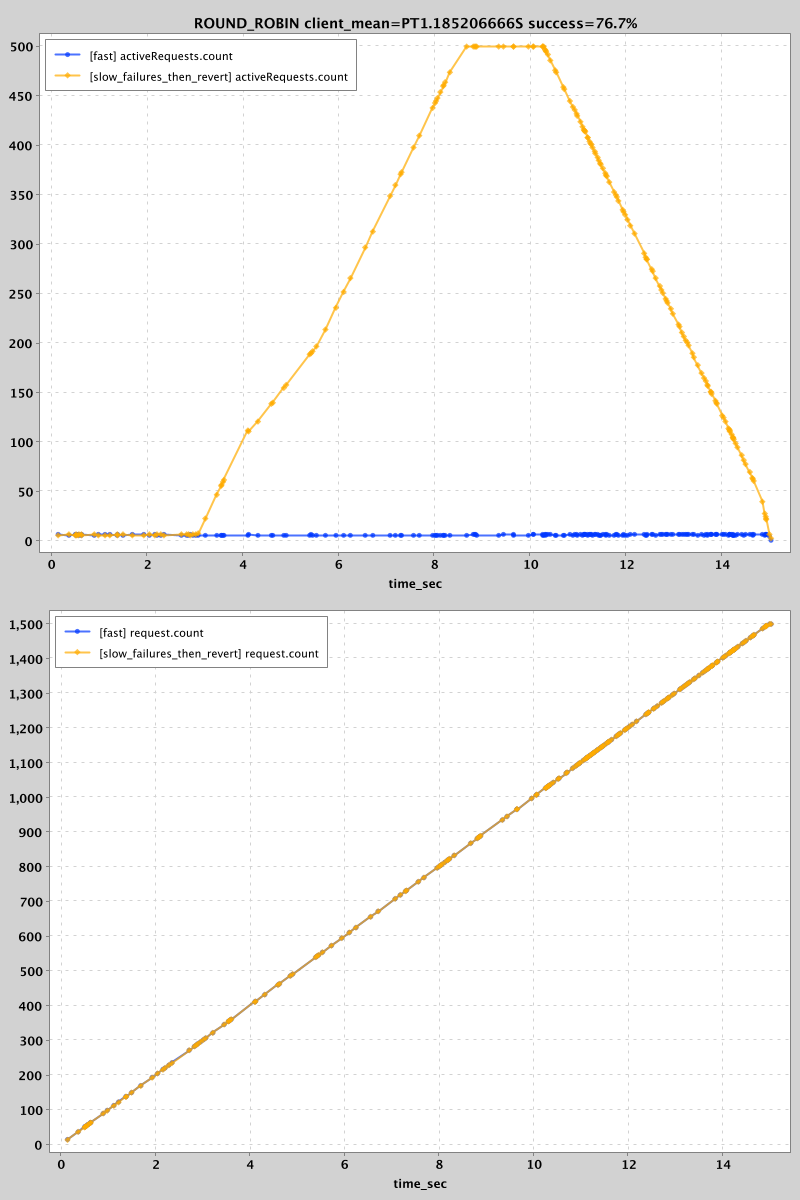
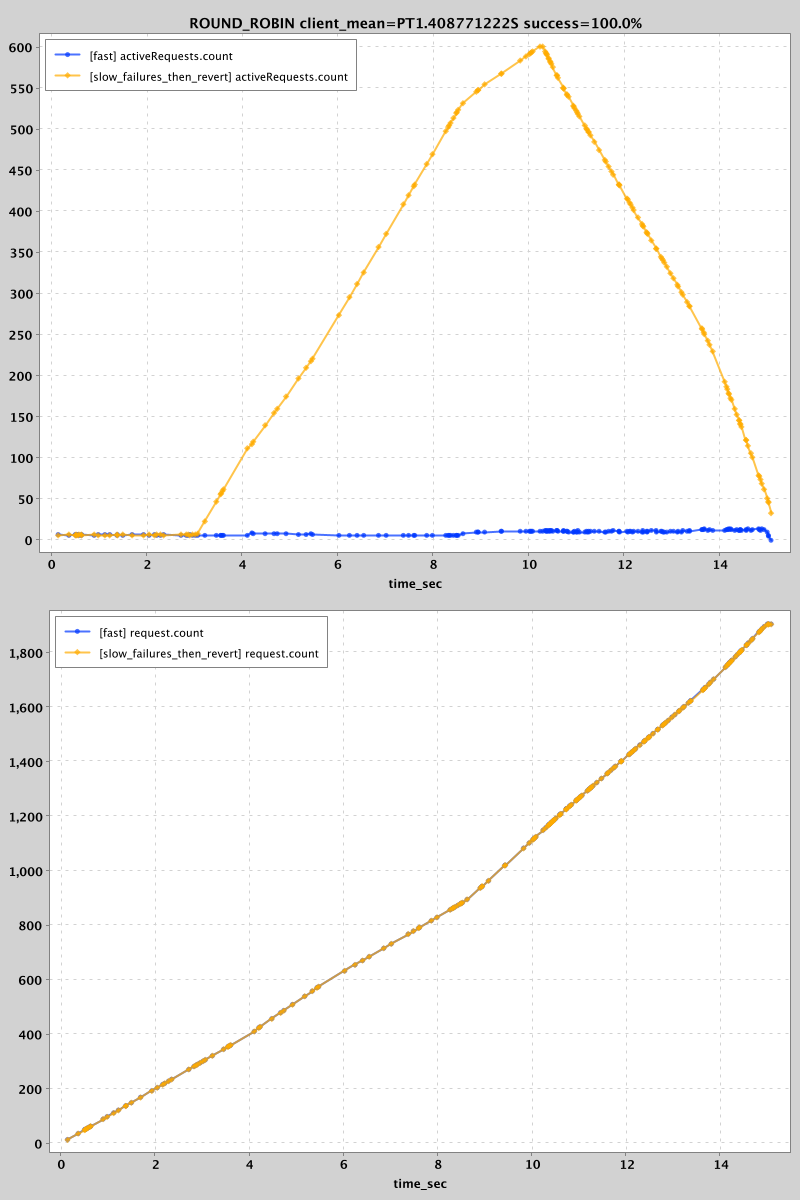
RetryingChannel retries 503 and 500s

diff --git a/dialogue-core/src/test/java/com/palantir/dialogue/core/RetryingChannelTest.java b/dialogue-core/src/test/java/com/palantir/dialogue/core/RetryingChannelTest.java
@@ -19,6 +19,7 @@ package com.palantir.dialogue.core;
 import static org.assertj.core.api.Assertions.assertThat;
 import static org.assertj.core.api.Assertions.assertThatThrownBy;
 import static org.mockito.ArgumentMatchers.any;
+import static org.mockito.Mockito.mock;
 import static org.mockito.Mockito.times;
 import static org.mockito.Mockito.verify;
 import static org.mockito.Mockito.when;
@@ -87,6 +88,32 @@ public class RetryingChannelTest {
 
         ListenableFuture<Response> response = retryer.execute(ENDPOINT, REQUEST);
         assertThatThrownBy(response::get).hasCauseInstanceOf(IllegalArgumentException.class);
+        verify(channel, times(3)).execute(ENDPOINT, REQUEST);
+    }
+
+    @Test
+    public void retries_500s() {
+        Response mockResponse = mock(Response.class);
+        when(mockResponse.code()).thenReturn(500);
+        when(channel.execute(any(), any())).thenReturn(Futures.immediateFuture(mockResponse));
+
+        ListenableFuture<Response> response = retryer.execute(ENDPOINT, REQUEST);
+        assertThatThrownBy(response::get)
+                .hasMessageContaining("Retries exhausted")
+                .hasCauseInstanceOf(RuntimeException.class);
+        verify(channel, times(3)).execute(ENDPOINT, REQUEST);
+    }
+
+    @Test
+    public void retries_503s() {
+        Response mockResponse = mock(Response.class);
+        when(mockResponse.code()).thenReturn(503);
+        when(channel.execute(any(), any())).thenReturn(Futures.immediateFuture(mockResponse));
+
+        ListenableFuture<Response> response = retryer.execute(ENDPOINT, REQUEST);
+        assertThatThrownBy(response::get)
+                .hasMessageContaining("Retries exhausted")
+                .hasCauseInstanceOf(RuntimeException.class);
         verify(channel, times(3)).execute(ENDPOINT, REQUEST);
     }
 

diff --git a/dialogue-core/src/main/java/com/palantir/dialogue/core/RetryingChannel.java b/dialogue-core/src/main/java/com/palantir/dialogue/core/RetryingChannel.java
@@ -31,7 +31,7 @@ import java.util.concurrent.atomic.AtomicInteger;
 import java.util.function.Supplier;
 
 /**
- * Retries calls to the underlying channel upon failure.
+ * Immediately retries calls to the underlying channel upon failure.
  */
 final class RetryingChannel implements Channel {
     private static final int DEFAULT_MAX_RETRIES = 4;
@@ -73,15 +73,26 @@ final class RetryingChannel implements Channel {
 
         @Override
         public void onSuccess(Response result) {
+            // this condition should really match the BlacklistingChannel so that we don't hit the same host twice in
+            // a row
+            if (result.code() == 503 || result.code() == 500) {
+                retryOrFail(() -> new RuntimeException("Retries exhausted"));
+                return;
+            }
+
             delegate.set(result);
         }
 
         @Override
         public void onFailure(Throwable throwable) {
+            retryOrFail(() -> throwable);
+        }
+
+        private void retryOrFail(Supplier<Throwable> throwable) {
             if (failures.incrementAndGet() < maxRetries) {
                 Futures.addCallback(runnable.get(), this, DIRECT_EXECUTOR);
             } else {
-                delegate.setException(throwable);
+                delegate.setException(throwable.get());
             }
         }
     }

diff --git a/simulation/src/test/java/com/palantir/dialogue/core/SimulationTest.java b/simulation/src/test/java/com/palantir/dialogue/core/SimulationTest.java
@@ -265,7 +265,9 @@ public class SimulationTest {
                 .map(c -> new BlacklistingChannel(c, Duration.ofSeconds(1), sim.clock()))
                 .collect(ImmutableList.toImmutableList());
         LimitedChannel idea = new PreferLowestUtilization(chans, sim.clock(), SimulationUtils.newPseudoRandom());
-        return dontTolerateLimits(idea);
+        Channel channel = dontTolerateLimits(idea);
+        channel = new RetryingChannel(channel);
+        return channel;
     }
 
     private static Channel concurrencyLimiter(Simulation sim, Channel... channels) {
